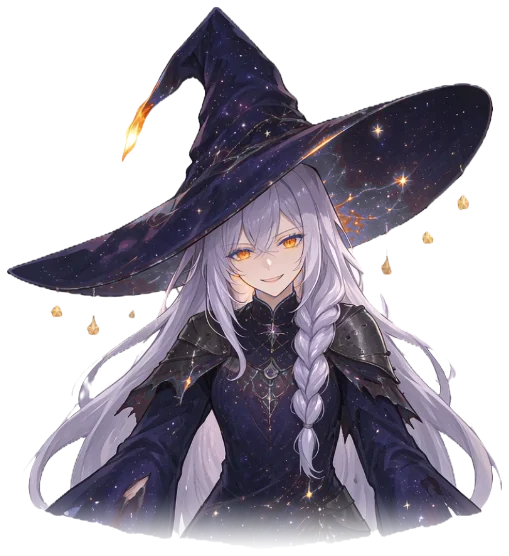
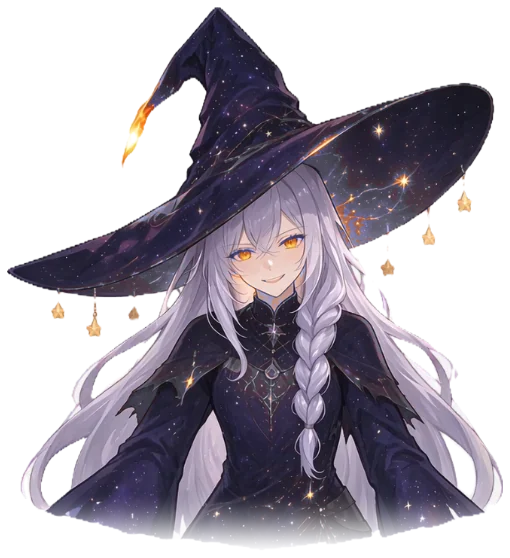
feat: 薇斯珀换用用户清理版立绘——01-06 重出全资产
用户把原图里的违规内容（血迹）去掉了，换 F:\游戏角色图库\魔女\01-06.png
重跑 stages.py 管线：六张 stage、六张 glow、layout.ts 全部重生成，四语
台词与数值配置不动。

管线顺带修了两个问题：
- 上一次手工重生成时（stage-4/5 临时压暗补丁那次）# Staggered rows 块的
  缩进落在了分区循环层级，每区只落一个盘——本次恢复 x 循环内正确缩进
- 新增区域守门：某区域在某张图画到、却无活打击区时，若该图画盖住最近
  打击区 ≥25% 面积（WIDEN_MIN）则扩到该图（防残局打不死）；不足 25%
  视为发梢擦边、维持打不着（防幻影盒、保住「残血一波」的灯炉机制——
  灯盘保持只在第 5、6 张图出现，机器人不再能提前拆灯）

layout 数据随之微调（74 打击区、stage-0 活盘 46→47、灯盘位置 109.67→
112.60），tests/vesper.test.ts 三处数据断言同步。799 测试全过，
Toy 包已重建，check:package 零命中。

diff --git a/src/render/boss/vesper/layout.ts b/src/render/boss/vesper/layout.ts
@@ -6,111 +6,90 @@
 
 /** A picture a stage, in order: where it lies, and where the light it throws lies (null: none). */
 export const VESPER_STAGES: Readonly<
-  Record<
-    number,
-    readonly [readonly [number, number, number, number], readonly [number, number, number, number] | null]
-  >
+  Record<number, readonly [readonly [number, number, number, number], readonly [number, number, number, number] | null]>
 > = {
-  0: [
-    [-111.1697, -103.7602, 100.8188, 128.0953],
-    [-135.3364, -127.9268, 124.9855, 152.262],
-  ],
-  1: [
-    [-106.8506, -106.2528, 116.0996, 119.7031],
-    [-130.184, -129.5861, 139.433, 143.0364],
-  ],
-  2: [
-    [-123.4668, -107.5488, 108.1418, 134.2617],
-    [-148.4668, -132.5488, 133.1418, 159.2617],
-  ],
-  3: [
-    [-129.6817, -99.2521, 114.2059, 164.3835],
-    [-157.1817, -126.7521, 141.7059, 191.8835],
-  ],
-  4: [
-    [-110.6132, -92.0477, 125.4298, 133.3559],
-    [-133.9466, -115.381, 148.7632, 156.6892],
-  ],
-  5: [
-    [-116.3208, -100.4447, 125.5314, 146.2025],
-    [-142.1541, -126.278, 151.3648, 172.0358],
-  ],
+  0: [[-111.5818, -104.0908, 100.8129, 128.3788], [-135.7485, -128.2574, 124.9796, 152.5455]],
+  1: [[-107.0375, -104.9112, 114.0432, 115.8494], [-129.9542, -127.8279, 136.9599, 138.7661]],
+  2: [[-125.6683, -108.7009, 109.7884, 133.7622], [-151.085, -134.1175, 135.2051, 159.1789]],
+  3: [[-130.8184, -103.1636, 116.9519, 167.8107], [-159.1517, -131.4969, 145.2852, 196.144]],
+  4: [[-108.1343, -91.6251, 122.9539, 128.6805], [-131.051, -114.5417, 145.8706, 151.5972]],
+  5: [[-119.718, -101.9155, 126.2266, 145.8332], [-145.5513, -127.7488, 152.0599, 171.6665]],
 };
 
 /** What the balls may hit: the region of her, x, y and radius in figure units, and the stages it is live in. */
 export const VESPER_DISCS: readonly (readonly [string, number, number, number, readonly number[]])[] = [
-  ['head', -14.9902, -92.5818, 19.9449, [0, 1, 2]],
-  ['head', -39.9213, -67.6507, 19.9449, [0]],
-  ['head', -2.5246, -67.6507, 19.9449, [0, 1, 2, 3, 5]],
-  ['head', 9.941, -67.6507, 19.9449, [0, 1, 2, 3, 4, 5]],
-  ['head', 72.2689, -67.6507, 19.9449, [0, 1]],
-  ['head', 84.7344, -67.6507, 19.9449, [1, 3]],
-  ['head', -14.9902, -42.7195, 19.9449, [0, 1, 2, 3, 4, 5]],
-  ['head', 22.4066, -42.7195, 19.9449, [0, 1, 2, 3, 4, 5]],
-  ['head', 34.8721, -42.7195, 19.9449, [0, 1, 2, 3, 5]],
-  ['head', 72.2689, -42.7195, 19.9449, [0, 1, 2, 3, 5]],
-  ['head', 84.7344, -42.7195, 19.9449, [0, 1, 2, 3, 5]],
-  ['body', -39.9213, -20.7801, 19.9449, [0, 1, 2, 3, 4, 5]],
-  ['body', -2.5246, -20.7801, 19.9449, [0, 1, 2, 3, 4, 5]],
-  ['body', 9.941, -20.7801, 19.9449, [0, 1, 2, 3, 4, 5]],
-  ['body', 47.3377, -20.7801, 19.9449, [0, 1, 2, 3, 4, 5]],
-  ['body', 59.8033, -20.7801, 19.9449, [0, 1, 2, 3, 5]],
-  ['body', 97.2, -20.7801, 19.9449, [5]],
-  ['body', -89.7836, 4.151, 19.9449, [0, 5]],
-  ['body', -52.3869, 4.151, 19.9449, [0, 1, 2, 3, 4, 5]],
-  ['body', -39.9213, 4.151, 19.9449, [0, 1, 2, 3, 4, 5]],
-  ['body', -2.5246, 4.151, 19.9449, [0, 1, 2, 3, 4, 5]],
-  ['body', 9.941, 4.151, 19.9449, [0, 1, 2, 3, 4, 5]],
-  ['body', 47.3377, 4.151, 19.9449, [0, 1, 2, 3, 4, 5]],
-  ['body', 59.8033, 4.151, 19.9449, [4]],
-  ['body', 97.2, 4.151, 19.9449, [4, 5]],
-  ['skirt', -64.8525, 32.9143, 19.9449, [3]],
-  ['skirt', -27.4557, 32.9143, 19.9449, [0, 1, 2, 3, 4, 5]],
-  ['skirt', -14.9902, 32.9143, 19.9449, [0, 1, 2, 3, 4, 5]],
-  ['skirt', 22.4066, 32.9143, 19.9449, [0, 1, 2, 3, 4, 5]],
-  ['skirt', 34.8721, 32.9143, 19.9449, [0, 1, 2, 3, 4, 5]],
-  ['skirt', 72.2689, 32.9143, 19.9449, [1, 2, 3, 4, 5]],
-  ['skirt', 84.7344, 32.9143, 19.9449, [1, 4]],
-  ['skirt', -114.7147, 57.8455, 19.9449, [2]],
-  ['skirt', -77.318, 57.8455, 19.9449, [1, 2, 3]],
-  ['skirt', -64.8525, 57.8455, 19.9449, [0, 1, 2, 3, 4, 5]],
-  ['skirt', -27.4557, 57.8455, 19.9449, [0, 1, 2, 3, 4, 5]],
-  ['skirt', -14.9902, 57.8455, 19.9449, [0, 1, 2, 3, 4, 5]],
-  ['skirt', 22.4066, 57.8455, 19.9449, [0, 1, 2, 3, 4, 5]],
-  ['skirt', 34.8721, 57.8455, 19.9449, [0, 1, 2, 3, 4, 5]],
-  ['skirt', 72.2689, 57.8455, 19.9449, [0, 1, 2, 3, 4, 5]],
-  ['skirt', 84.7344, 57.8455, 19.9449, [1, 2, 4, 5]],
-  ['skirt', -89.7836, 82.7766, 19.9449, [1, 2, 3, 4]],
-  ['skirt', -52.3869, 82.7766, 19.9449, [0, 1, 2, 3, 4, 5]],
-  ['skirt', -39.9213, 82.7766, 19.9449, [0, 1, 2, 3, 4, 5]],
-  ['skirt', -2.5246, 82.7766, 19.9449, [0, 1, 2, 3, 4, 5]],
-  ['skirt', 9.941, 82.7766, 19.9449, [0, 1, 2, 3, 4, 5]],
-  ['skirt', 47.3377, 82.7766, 19.9449, [0, 1, 2, 3, 4, 5]],
-  ['skirt', 59.8033, 82.7766, 19.9449, [0, 1, 2, 3, 4, 5]],
-  ['skirt', 97.2, 82.7766, 19.9449, [0, 1, 2, 3, 4, 5]],
-  ['skirt', 109.6656, 82.7766, 19.9449, [4]],
-  ['skirt', -89.7836, 107.7078, 19.9449, [3, 5]],
-  ['skirt', -52.3869, 107.7078, 19.9449, [0, 2, 3, 4, 5]],
-  ['skirt', -39.9213, 107.7078, 19.9449, [0, 1, 2, 3, 4, 5]],
-  ['skirt', -2.5246, 107.7078, 19.9449, [0, 1, 2, 3, 4, 5]],
-  ['skirt', 9.941, 107.7078, 19.9449, [0, 1, 2, 3, 4, 5]],
-  ['skirt', 47.3377, 107.7078, 19.9449, [0, 1, 2, 3, 4, 5]],
-  ['skirt', 59.8033, 107.7078, 19.9449, [0, 1, 2, 3, 4, 5]],
-  ['skirt', 97.2, 107.7078, 19.9449, [1, 2, 3, 4, 5]],
-  ['skirt', 109.6656, 107.7078, 19.9449, [5]],
-  ['skirt', -89.7836, 132.6389, 19.9449, [3]],
-  ['skirt', -52.3869, 132.6389, 19.9449, [3, 5]],
-  ['skirt', -39.9213, 132.6389, 19.9449, [3, 5]],
-  ['skirt', -2.5246, 132.6389, 19.9449, [3, 5]],
-  ['skirt', 9.941, 132.6389, 19.9449, [3, 5]],
-  ['skirt', 47.3377, 132.6389, 19.9449, [3, 5]],
-  ['skirt', 59.8033, 132.6389, 19.9449, [3, 5]],
-  ['side.L', -89.7836, 10.4669, 19.9449, [0, 5]],
-  ['side.L', -114.7147, 60.3292, 19.9449, [2]],
-  ['side.L', -77.318, 60.3292, 19.9449, [1, 2, 3]],
-  ['side.L', -89.7836, 85.2604, 19.9449, [0, 1, 2, 3, 4, 5]],
-  ['side.L', -89.7836, 110.1915, 19.9449, [3, 5]],
-  ['side.L', -89.7836, 135.1227, 19.9449, [3]],
-  ['side.R', 109.6656, 85.2604, 19.9449, [4]],
-  ['side.R', 109.6656, 110.1915, 19.9449, [5]],
+  ['head', -14.2035, -93.5278, 20.2884, [0, 1, 2, 3]],
+  ['head', -39.564, -68.1674, 20.2884, [0, 2]],
+  ['head', -1.5233, -68.1674, 20.2884, [0, 1, 2, 3, 5]],
+  ['head', 11.1569, -68.1674, 20.2884, [0, 1, 2, 3, 4, 5]],
+  ['head', 74.5581, -68.1674, 20.2884, [0, 1, 3]],
+  ['head', 87.2383, -68.1674, 20.2884, [1, 3]],
+  ['head', -14.2035, -42.8069, 20.2884, [0, 1, 2, 3, 4, 5]],
+  ['head', 23.8371, -42.8069, 20.2884, [0, 1, 2, 3, 4, 5]],
+  ['head', 36.5174, -42.8069, 20.2884, [0, 1, 2, 3, 5]],
+  ['head', 74.5581, -42.8069, 20.2884, [0, 1, 2, 3, 5]],
+  ['head', 87.2383, -42.8069, 20.2884, [0, 1, 2, 3, 5]],
+  ['body', -39.564, -20.4897, 20.2884, [0, 1, 2, 3, 4, 5]],
+  ['body', -1.5233, -20.4897, 20.2884, [0, 1, 2, 3, 4, 5]],
+  ['body', 11.1569, -20.4897, 20.2884, [0, 1, 2, 3, 4, 5]],
+  ['body', 49.1976, -20.4897, 20.2884, [0, 1, 2, 3, 4, 5]],
+  ['body', 61.8778, -20.4897, 20.2884, [0, 1, 2, 3, 5]],
+  ['body', 99.9185, -20.4897, 20.2884, [5]],
+  ['body', -90.2849, 4.8707, 20.2884, [0, 5]],
+  ['body', -52.2442, 4.8707, 20.2884, [0, 1, 2, 3, 4, 5]],
+  ['body', -39.564, 4.8707, 20.2884, [0, 1, 2, 3, 4, 5]],
+  ['body', -1.5233, 4.8707, 20.2884, [0, 1, 2, 3, 4, 5]],
+  ['body', 11.1569, 4.8707, 20.2884, [0, 1, 2, 3, 4, 5]],
+  ['body', 49.1976, 4.8707, 20.2884, [0, 1, 2, 3, 4, 5]],
+  ['body', 61.8778, 4.8707, 20.2884, [4]],
+  ['body', 99.9185, 4.8707, 20.2884, [4, 5]],
+  ['skirt', -39.564, 31.7827, 20.2884, [0, 1, 2, 3, 4, 5]],
+  ['skirt', -1.5233, 31.7827, 20.2884, [0, 1, 2, 3, 4, 5]],
+  ['skirt', 11.1569, 31.7827, 20.2884, [0, 1, 2, 3, 4, 5]],
+  ['skirt', 49.1976, 31.7827, 20.2884, [0, 1, 2, 3, 4, 5]],
+  ['skirt', 61.8778, 31.7827, 20.2884, [1, 2, 3, 4, 5]],
+  ['skirt', 99.9185, 31.7827, 20.2884, [1, 4]],
+  ['skirt', -90.2849, 57.1431, 20.2884, [1, 2, 3]],
+  ['skirt', -52.2442, 57.1431, 20.2884, [0, 1, 2, 3, 4, 5]],
+  ['skirt', -39.564, 57.1431, 20.2884, [0, 1, 2, 3, 4, 5]],
+  ['skirt', -1.5233, 57.1431, 20.2884, [0, 1, 2, 3, 4, 5]],
+  ['skirt', 11.1569, 57.1431, 20.2884, [0, 1, 2, 3, 4, 5]],
+  ['skirt', 49.1976, 57.1431, 20.2884, [0, 1, 2, 3, 4, 5]],
+  ['skirt', 61.8778, 57.1431, 20.2884, [0, 1, 2, 3, 4, 5]],
+  ['skirt', 99.9185, 57.1431, 20.2884, [1, 2, 4, 5]],
+  ['skirt', -90.2849, 82.5036, 20.2884, [0, 1, 2, 3, 4, 5]],
+  ['skirt', -52.2442, 82.5036, 20.2884, [0, 1, 2, 3, 4, 5]],
+  ['skirt', -39.564, 82.5036, 20.2884, [0, 1, 2, 3, 4, 5]],
+  ['skirt', -1.5233, 82.5036, 20.2884, [0, 1, 2, 3, 4, 5]],
+  ['skirt', 11.1569, 82.5036, 20.2884, [0, 1, 2, 3, 4, 5]],
+  ['skirt', 49.1976, 82.5036, 20.2884, [0, 1, 2, 3, 4, 5]],
+  ['skirt', 61.8778, 82.5036, 20.2884, [0, 1, 2, 3, 4, 5]],
+  ['skirt', 99.9185, 82.5036, 20.2884, [0, 1, 2, 3, 4, 5]],
+  ['skirt', 112.5987, 82.5036, 20.2884, [4]],
+  ['skirt', -90.2849, 107.864, 20.2884, [2, 3, 5]],
+  ['skirt', -52.2442, 107.864, 20.2884, [0, 2, 3, 4, 5]],
+  ['skirt', -39.564, 107.864, 20.2884, [0, 1, 2, 3, 4, 5]],
+  ['skirt', -1.5233, 107.864, 20.2884, [0, 1, 2, 3, 4, 5]],
+  ['skirt', 11.1569, 107.864, 20.2884, [0, 1, 2, 3, 4, 5]],
+  ['skirt', 49.1976, 107.864, 20.2884, [0, 1, 2, 3, 4, 5]],
+  ['skirt', 61.8778, 107.864, 20.2884, [0, 1, 2, 3, 4, 5]],
+  ['skirt', 99.9185, 107.864, 20.2884, [2, 3, 4, 5]],
+  ['skirt', -90.2849, 133.2245, 20.2884, [3]],
+  ['skirt', -52.2442, 133.2245, 20.2884, [3, 5]],
+  ['skirt', -39.564, 133.2245, 20.2884, [3, 5]],
+  ['skirt', -1.5233, 133.2245, 20.2884, [3, 5]],
+  ['skirt', 11.1569, 133.2245, 20.2884, [3, 5]],
+  ['skirt', 49.1976, 133.2245, 20.2884, [3, 5]],
+  ['skirt', 61.8778, 133.2245, 20.2884, [3, 5]],
+  ['skirt', -39.564, 158.5849, 20.2884, [3]],
+  ['skirt', -1.5233, 158.5849, 20.2884, [3]],
+  ['skirt', 11.1569, 158.5849, 20.2884, [3]],
+  ['skirt', 49.1976, 158.5849, 20.2884, [3]],
+  ['side.L', -90.2849, 11.2954, 20.2884, [0, 5]],
+  ['side.L', -115.6454, 62.0163, 20.2884, [2]],
+  ['side.L', -77.6047, 62.0163, 20.2884, [1, 2, 3]],
+  ['side.L', -90.2849, 87.3768, 20.2884, [0, 2, 3, 4, 5]],
+  ['side.L', -90.2849, 112.7372, 20.2884, [3, 5]],
+  ['side.L', -90.2849, 138.0977, 20.2884, [3]],
+  ['side.R', 112.5987, 87.3768, 20.2884, [4, 5]],
 ];

diff --git a/tests/vesper.test.ts b/tests/vesper.test.ts
@@ -74,7 +74,7 @@ describe('薇斯珀 as a fight', () => {
     expect(discs).toHaveLength(
       VESPER.parts.reduce((sum, part) => sum + part.discs.filter((disc) => disc.live!.includes(0)).length, 0),
     );
-    expect(discs).toHaveLength(46);
+    expect(discs).toHaveLength(47);
     expect(discs.map((disc) => disc.id)).not.toContain('side.R');
     expect(new Set(discs.map((disc) => disc.key)).size).toBe(discs.length);
     expect(discs.every((disc) => disc.key < 0)).toBe(true);
@@ -412,7 +412,7 @@ describe('薇斯珀 through the world', () => {
     expect(world.characterDiscs().map((each) => each.id)).not.toContain('side.R');
     // ...but the side stands, so it is somewhere to throw from: its first disc, drawn or not.
     const lamp = characterMuzzlesOf(world.character!).find((each) => each.id === 'side.R')!;
-    expect(lamp.x).toBeCloseTo(world.character!.state.x + 109.6656 * VESPER.figure, 5);
+    expect(lamp.x).toBeCloseTo(world.character!.state.x + 112.5987 * VESPER.figure, 5);
     const before = world.bullets.length;
     world.character!.attackAt = 0;
     world.character!.attackCd = 0;

diff --git a/tools/boss-cut/stages.py b/tools/boss-cut/stages.py
@@ -297,6 +297,10 @@ def in_region(x, y, top, bottom, side, reach):
 
 
 radius = float(np.clip(0.075 * fh, 12, 24))
+# The share of a disc's area the drawing must cover before a region without a live disc there
+# gets one anyway. Tests/vesper.test.ts guards the fight is always finishable; if that guard
+# ever fails for a region, lower this or re-cut the picture.
+WIDEN_MIN = 0.25
 rr = int(np.ceil(radius))
 yy, xx = np.mgrid[-rr:rr + 1, -rr:rr + 1]
 kernel = ((xx ** 2 + yy ** 2) <= radius ** 2).astype(np.float32)
@@ -331,6 +335,47 @@ for name, top, bottom, side, reach in REGIONS:
             xx_ = x + (step / 2 if row % 2 else 0)
             discs.append((name, xx_, y, mask))
             row += 1
+
+# A standing region must stay strikable for as long as any picture draws it. The grid spots are
+# fixed, but a prop held a little differently in one picture (the lamp, say) can leave the spot a
+# disc sits on just uncovered there — and a fight whose last standing region has nothing left to
+# strike on the picture showing is a fight with no way on. Where a picture draws a region that
+# owns discs but none of them is live there, widen that region's nearest disc to the stage.
+for name_, top, bottom, side, reach in REGIONS:
+    mine = [i for i, d in enumerate(discs) if d[0] == name_]
+    if not mine:
+        continue
+    for s_, cov in enumerate(per_stage):
+        if any(discs[i][3] >> s_ & 1 for i in mine):
+            continue
+        drawn_here = False
+        for y in np.arange(frame[1] + top * fh, frame[1] + bottom * fh, radius):
+            if drawn_here:
+                break
+            for x in np.arange(frame[0], frame[0] + fw, radius):
+                if not in_region(x, y, top, bottom, side, reach):
+                    continue
+                px, py = int(round(x - frame[0])), int(round(y - frame[1]))
+                if 0 <= px < width and 0 <= py < height and cov[py, px] >= 0.4:
+                    drawn_here = True
+                    break
+        if not drawn_here:
+            continue
+        best_i, best_c = None, 0.0
+        for i in mine:
+            _, x, y, _ = discs[i]
+            px, py = int(round(x - frame[0])), int(round(y - frame[1]))
+            if 0 <= px < width and 0 <= py < height and cov[py, px] > best_c:
+                best_i, best_c = i, float(cov[py, px])
+        # A disc is widened only where the drawing genuinely sits under it: below this share the
+        # picture merely grazes the region (hair at the edge), and a hitbox widened there would
+        # hang in half-empty air — and hand an early stage a target the art does not show.
+        if best_c >= WIDEN_MIN:
+            nm, x, y, mask = discs[best_i]
+            discs[best_i] = (nm, x, y, mask | (1 << s_))
+            print('region %s is drawn in picture %d but had no hitbox there — widened its nearest disc (coverage %.2f)' % (name_, s_, best_c))
+        elif best_c > 0:
+            print('region %s in picture %d: drawing grazes its disc spot only (coverage %.2f) — left unhittable there' % (name_, s_, best_c))
 print('hitboxes: ' + ', '.join('%s %d' % (n, sum(1 for d in discs if d[0] == n)) for n, *_ in REGIONS) + ' (%d of radius %.1f units)' % (len(discs), radius))
 print('pictures total %d B (%.2f MB)' % (total, total / 1048576))
 

diff --git a/docs/boss/stages.md b/docs/boss/stages.md
@@ -90,6 +90,9 @@ export const WHOEVER: CharacterDef = {
   所以只在后几张图出现的道具**不会在开局就被流弹打掉**。
   `tests/vesper.test.ts` 逐个子集守着「无论还剩哪几个区域，它们加起来对应的那张图里总有一个能打」，
   不会出现打不死的情况。
+  新图重出时，`stages.py` 自带一道守门：某区域在某张图里画到了、却没有任何打击区活着，且该图
+  的画盖住了它最近打击区 ≥25% 面积（`WIDEN_MIN`），就把那个打击区扩到这张图——防「残局打不死」；
+  盖不到 25% 只算擦边（发梢扫过），维持打不着，避免凭空出现看不见的盒子。
 - **出招的位置不看图**：她还站着的部位就能出招，哪怕当前这张图没画它。薇斯珀的齐射来自
   灯炉那一侧，第 1~4 张图没画灯炉，齐射照样从那儿出来——只有球会被「画没画」挡住。
   部位被打掉后才既不能挨打也不能出招。
